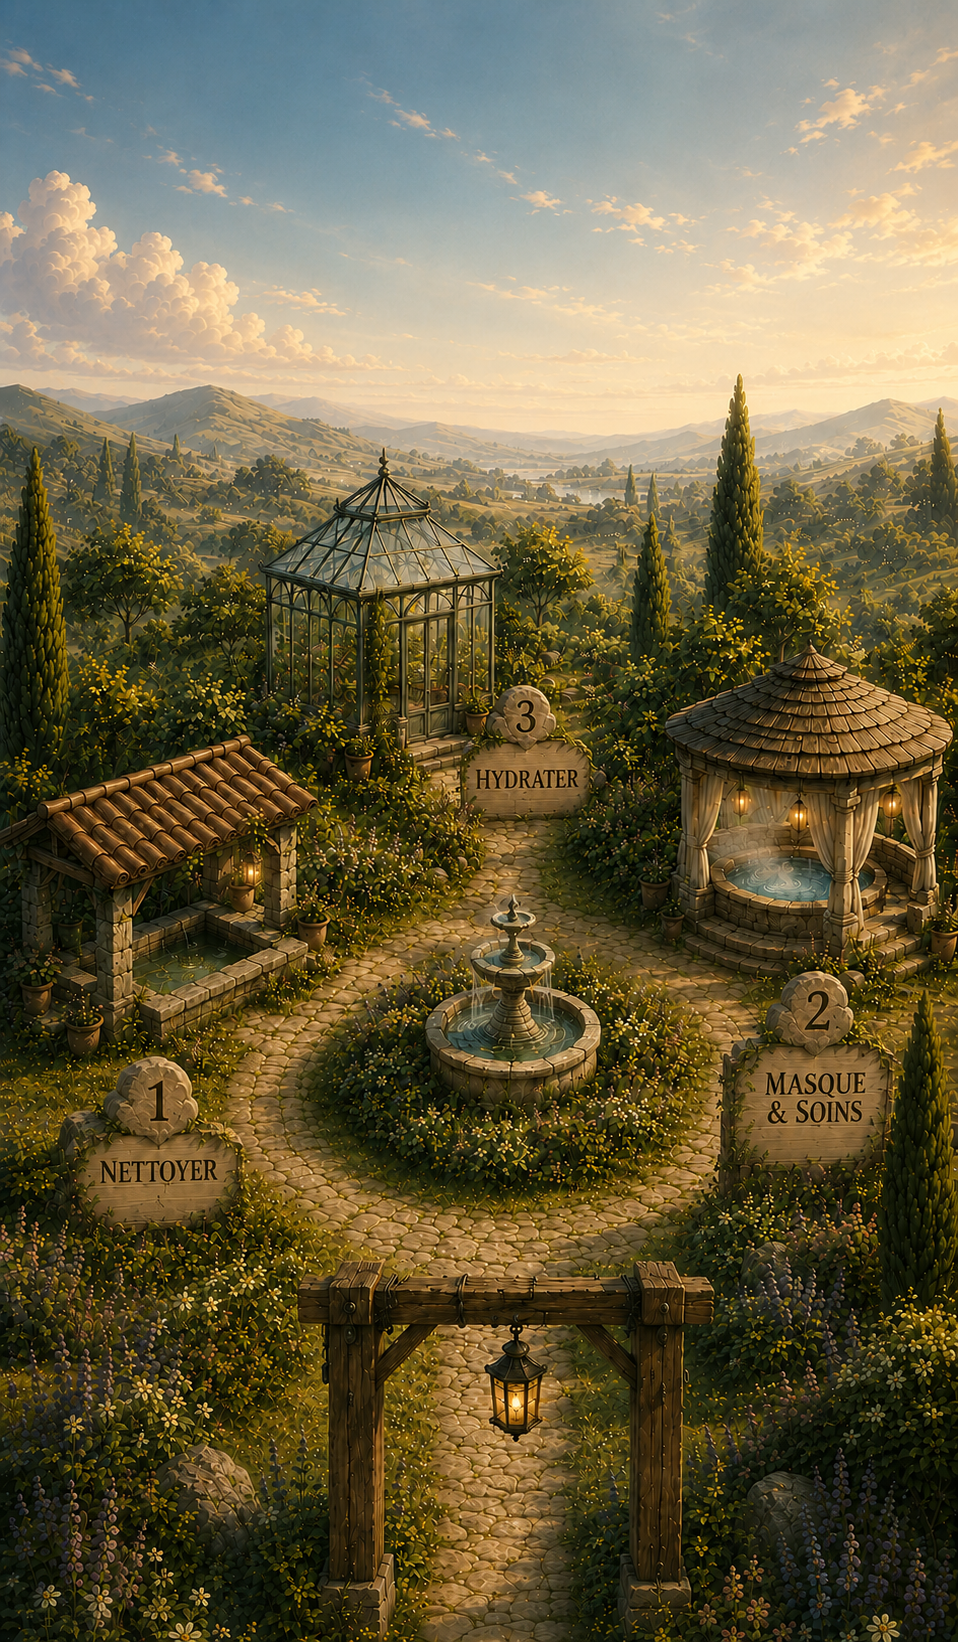
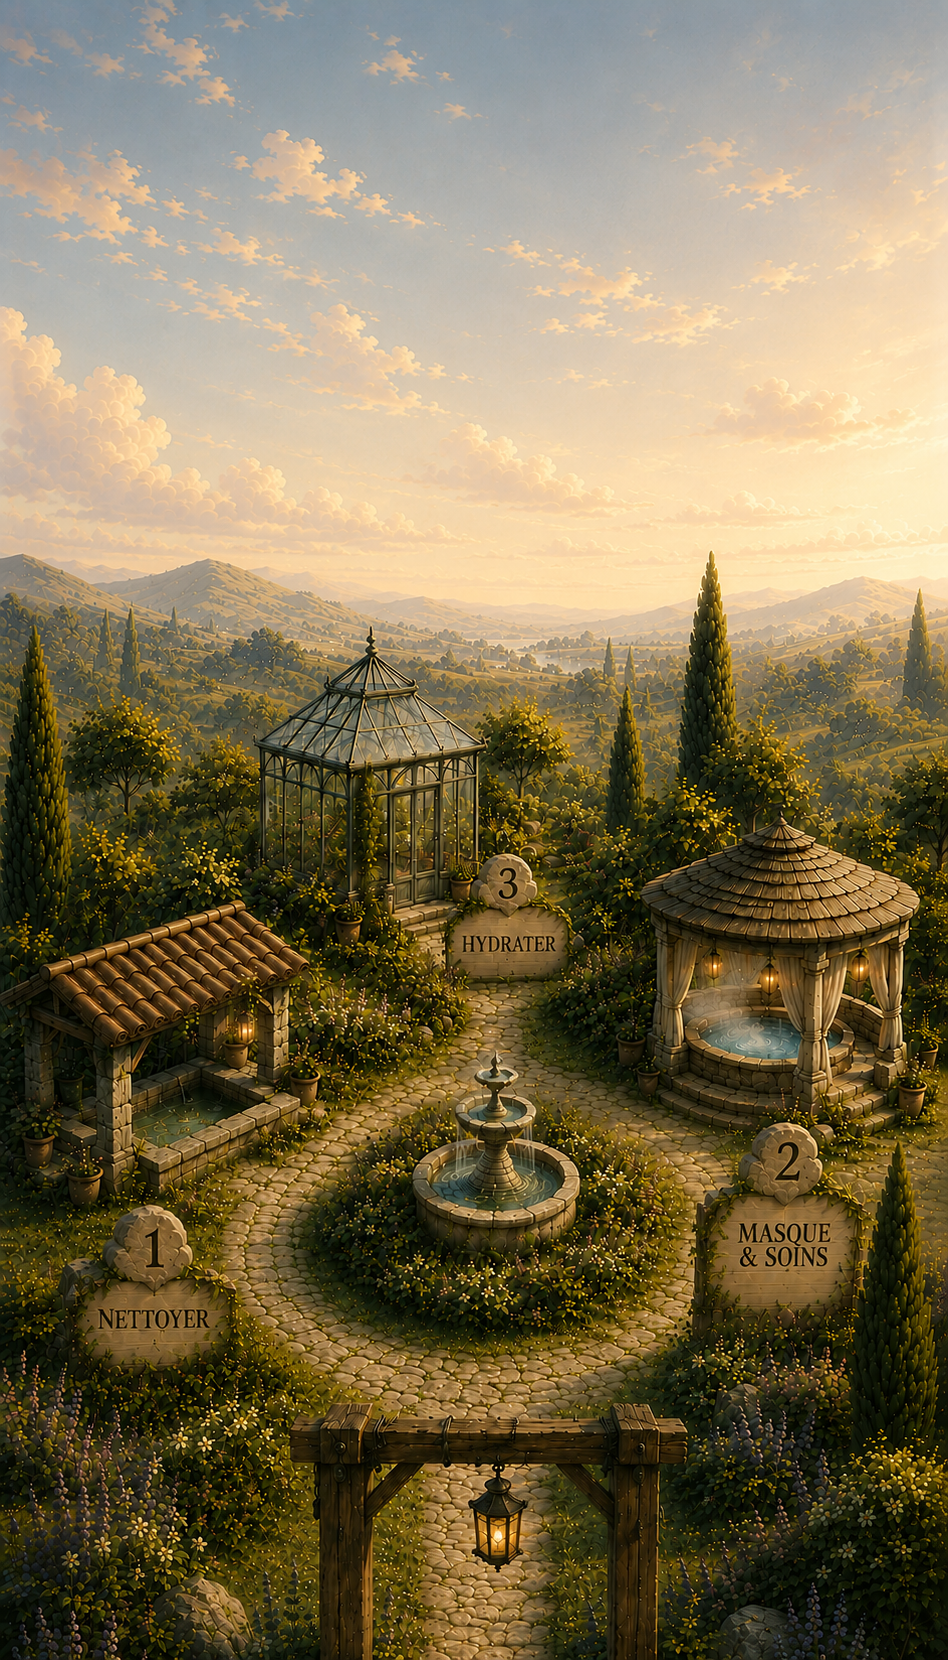
Rituel : clairiere mise a jour (948x1660) + fond haut #85949d

diff --git a/index.html b/index.html
@@ -1429,7 +1429,7 @@
      de ciel proche du haut de chaque illustration, plutôt que le fond crème de l'appli. */
   .cm-scene[data-moment="matin"]{background-color:#bcb3a4;}
   .cm-scene[data-moment="soir"]{background-color:#a25f3e;}
-  .cm-scene[data-moment="hebdo"]{background-color:#6e8793;}
+  .cm-scene[data-moment="hebdo"]{background-color:#85949d;}
   .cm-links{position:absolute;inset:0;z-index:4;pointer-events:none;overflow:visible;}
   .cm-links path{fill:none;stroke-linecap:round;}
   .cm-links .lk-base{stroke:rgba(120,92,58,0.20);}
@@ -6148,7 +6148,7 @@
       traiter :{x:73, y:65, h:18.31, r:1.40, cx:84,   cy:65.5, pw:12.5, ph:7.5, rot:-2},  // 2 → ardoise de l'apothicaire
       hydrater:{x:30, y:35, h:11.97, r:1.50, cx:26,   cy:36,   pw:13.5, ph:4.6, rot:0}    // 3 → panonceau près de la verrière
     }},
-    hebdo:{ img:'img/clairiere.jpg', w:958, h:1642, top:22, pos:{
+    hebdo:{ img:'img/clairiere.jpg', w:948, h:1660, top:22, pos:{
       nettoyer:{x:14.57, y:58.57, h:13.29, r:1.15},
       masque  :{x:79.69, y:54.53, h:17.76, r:1.31},
       hydrater:{x:34.34, y:45.59, h:18.18, r:1.18}
